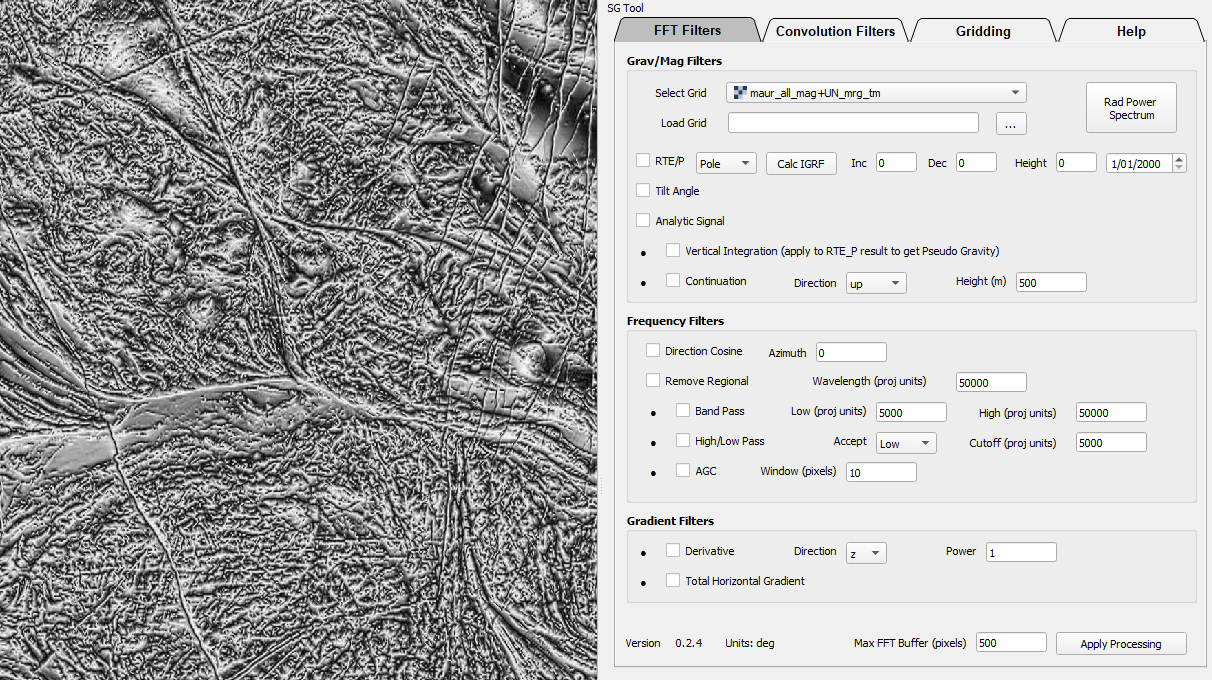
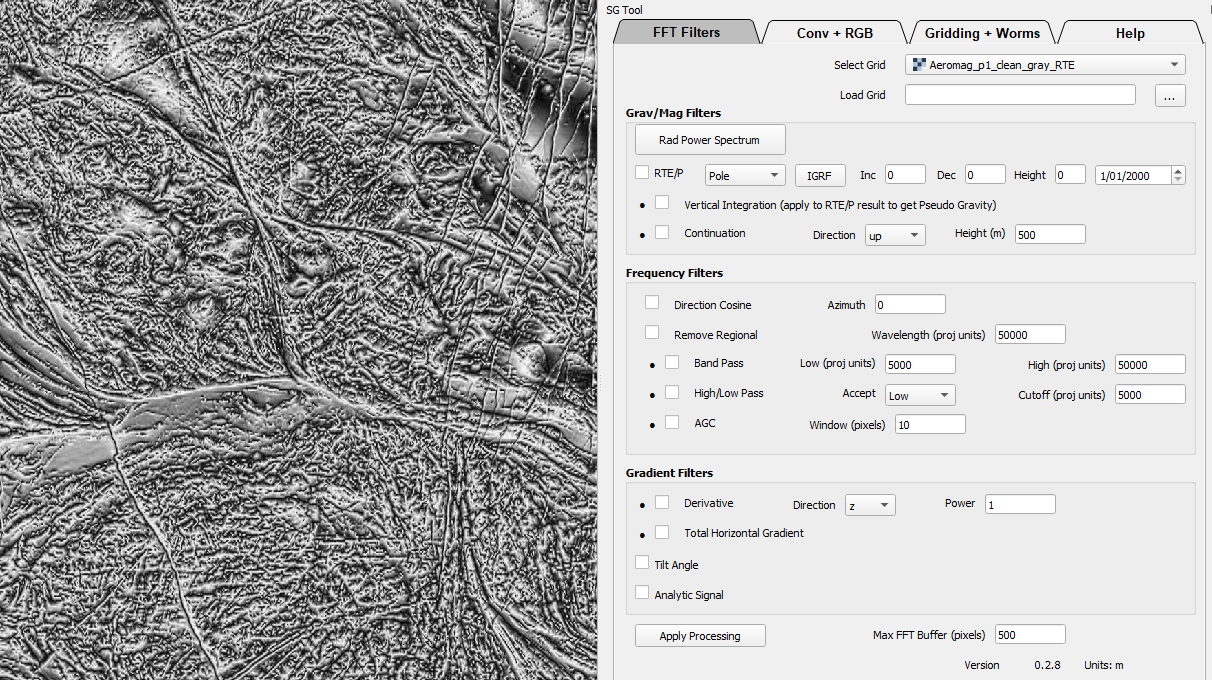
update readme and rearrange GUI a bit
GUI: fix upper lower default values that was causing a bug
GUI: Rename manual so not version dependent

diff --git a/SGTool.py b/SGTool.py
@@ -1978,7 +1978,7 @@ class SGTool:
             self.dlg.pushButton_help.clicked.connect(
                 lambda: QDesktopServices.openUrl(
                     QUrl(
-                        "https://raw.githubusercontent.com/swaxi/SGTool/refs/heads/main/Structural%20Geophysics%20Tools%20v%200_2_7.pdf"
+                        "https://raw.githubusercontent.com/swaxi/SGTool/refs/heads/main/Structural%20Geophysics%20Tools.pdf"
                     )
                 )
             )

diff --git a/README.md b/README.md
@@ -4,7 +4,7 @@
     
  This plugin is available directly within QGIS using the Plugin Manager, however the latest version with all new bugs will always be at this site.   
 
- **<a href="https://raw.githubusercontent.com/swaxi/SGTool/refs/heads/main/Structural%20Geophysics%20Tools%20v%200_2_7.pdf">Download Basic Help Document</a>**   
+ **<a href="https://raw.githubusercontent.com/swaxi/SGTool/refs/heads/main/Structural%20Geophysics%20Tools.pdf">Download Basic Help Document</a>**   
     
 ![SGTools image](dialog.png)       
 
